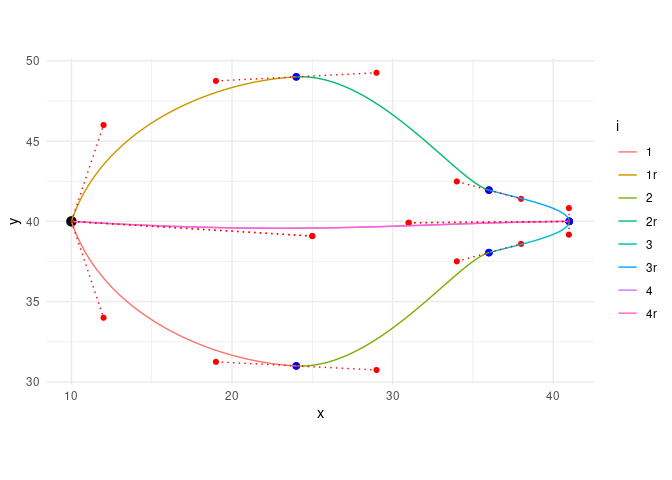
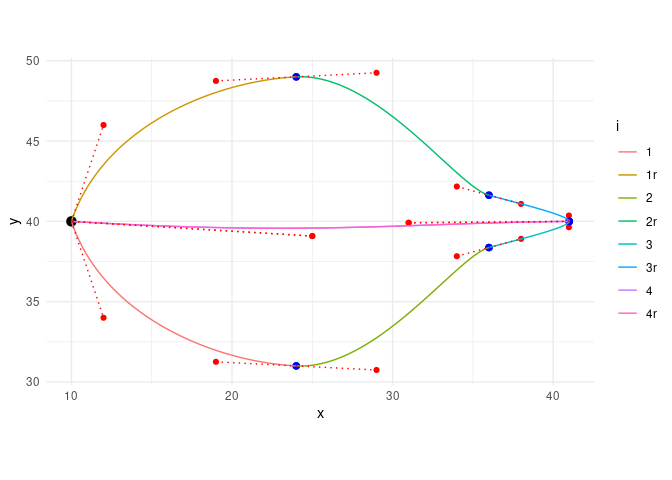
update readme

diff --git a/README.md b/README.md
@@ -11,7 +11,10 @@ experimental](https://img.shields.io/badge/lifecycle-experimental-orange.svg)](h
 status](https://www.r-pkg.org/badges/version/benjaminileaves)](https://CRAN.R-project.org/package=benjaminileaves)
 <!-- badges: end -->
 
-The goal of benjaminileaves is to …
+The goal of this package is to generate shapes in the form of ficus
+benjamina leaves ([weeping
+fig](https://en.wikipedia.org/wiki/Ficus_benjamina)) with bezier curves.
+To demonstrate it we’ll first load some packages:
 
 ## Installation
 
@@ -26,10 +29,6 @@ remotes::install_github("urswilke/benjaminileaves")
 ```
 
 ## Generate benjamini leaves with bezier curves
-
-This package is just to generate shapes in the form of ficus benjamina
-leaves with bezier curves. To demonstrate we’ll first load some
-packages:
 
 ``` r
 library(benjaminileaves)
@@ -59,10 +58,10 @@ df
 #>  4 1        24  31  
 #>  5 2        24  31  
 #>  6 2        29  30.7
-#>  7 2        34  37.5
-#>  8 2        36  38.1
-#>  9 3        36  38.1
-#> 10 3        38  38.6
+#>  7 2        34  37.8
+#>  8 2        36  38.4
+#>  9 3        36  38.4
+#> 10 3        38  38.9
 #> # … with 22 more rows
 ```
 
